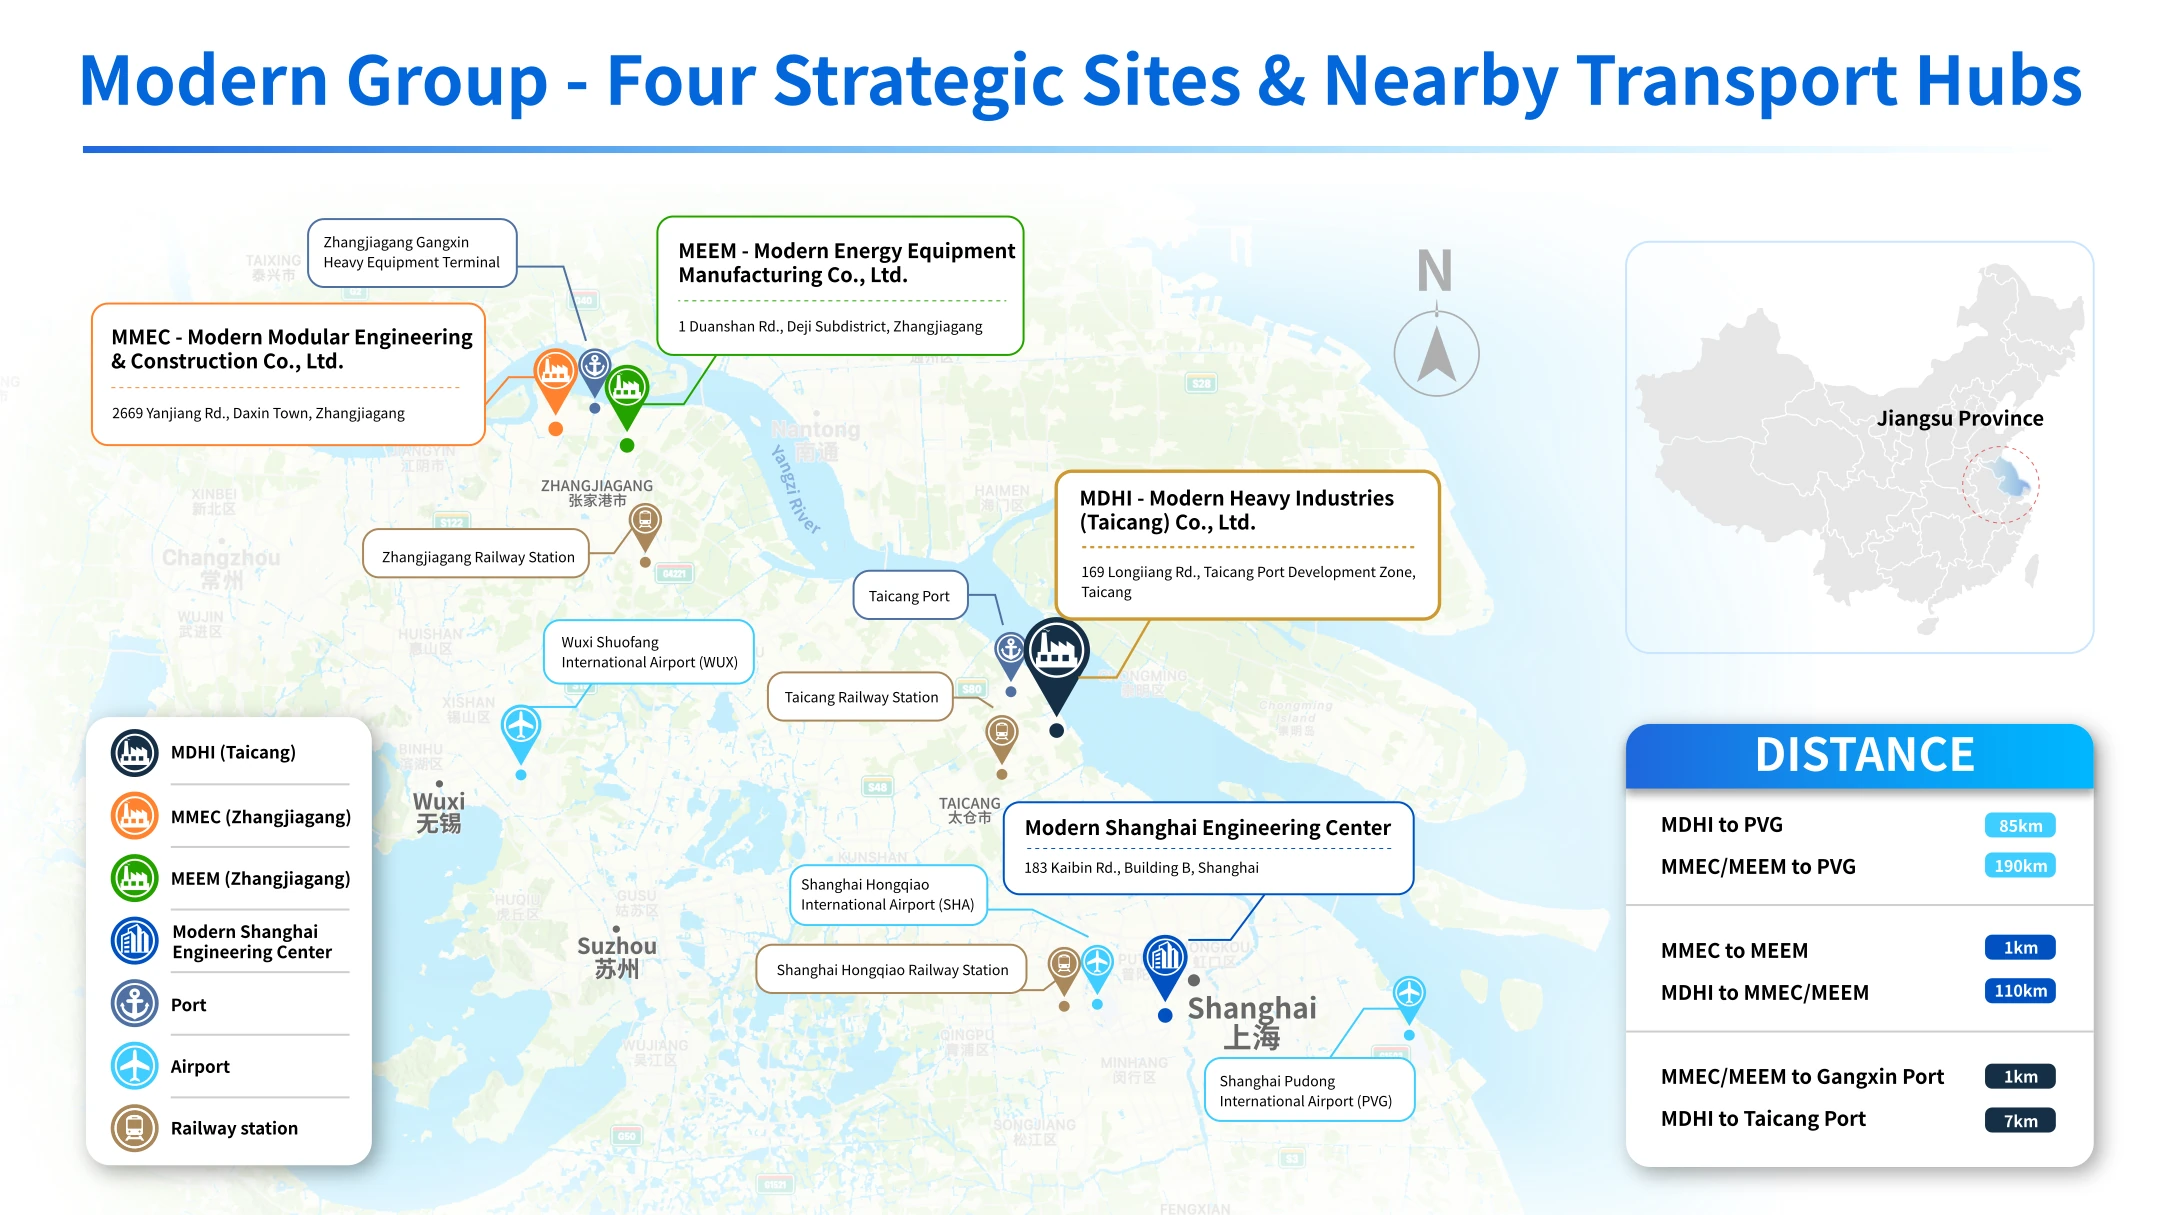
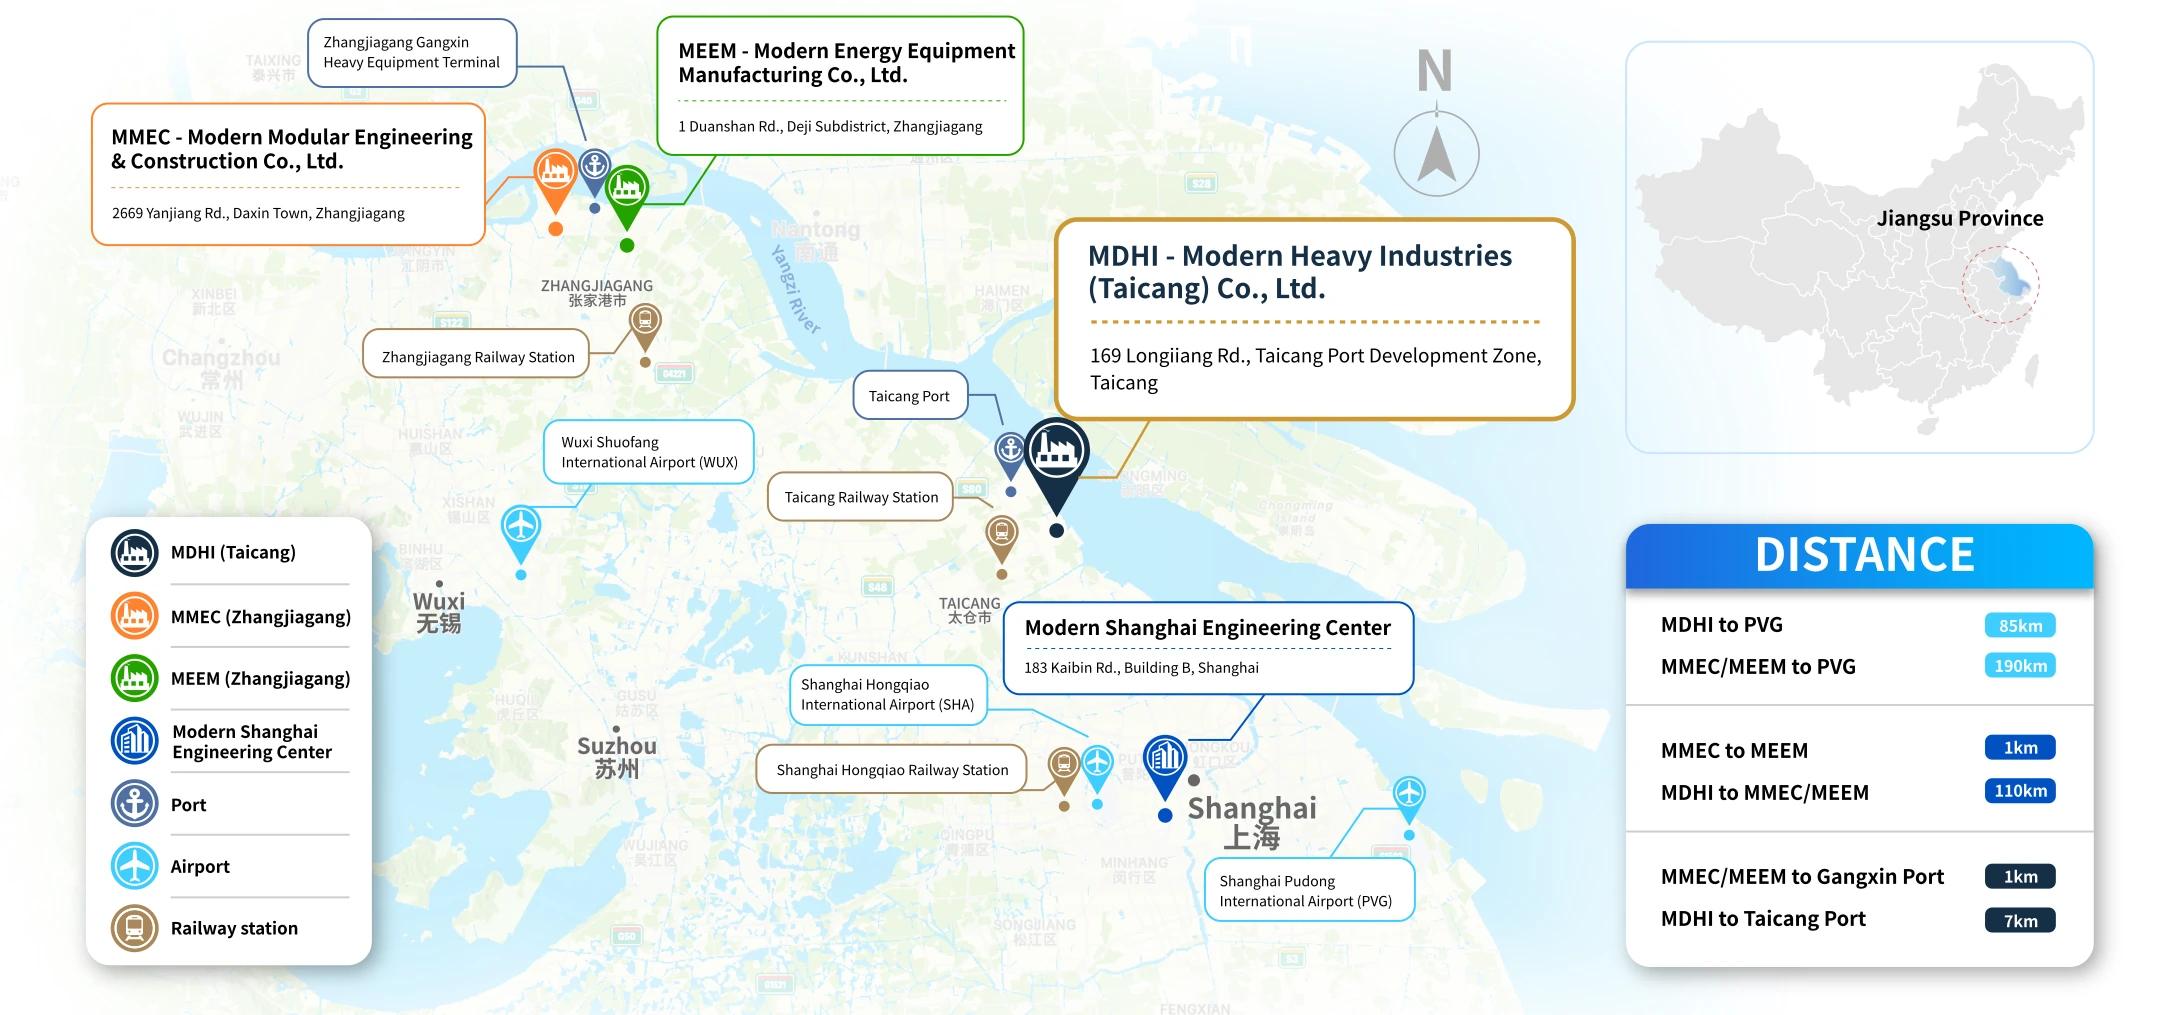
Remove map headline and enlarge MDHI location callout

diff --git a/abtmdhi.html b/abtmdhi.html
@@ -343,7 +343,7 @@
 
   <section class="about-section about-location-section" id="about-location" aria-labelledby="about-location-title"><div class="container">
 <div class="about-section-top"><div><p class="about-eyebrow">LOCATION</p><h2 id="about-location-title">MDHI in Taicang.<br>Connected to the region.</h2></div><p>Our Taicang manufacturing site is located near Shanghai and Taicang Port. The map below shows MDHI within the wider Modern Group network.</p></div>
-<figure class="about-location-map"><h3 class="about-image-heading">MDHI location &amp; transport connections</h3><a href="images/location-map-mdhi.webp" target="_blank" rel="noopener noreferrer" data-infographic-title="MDHI location and transport connections" aria-label="Enlarge MDHI location map"><img src="images/location-map-mdhi.webp" alt="Location map highlighting MDHI in navy and gold, with Modern Group sites and nearby transport hubs" width="2160" height="1215" loading="lazy" decoding="async"></a><figcaption>MDHI is highlighted in navy and gold. Select the map to view it at full size.</figcaption></figure>
+<figure class="about-location-map"><h3 class="about-image-heading">MDHI location &amp; transport connections</h3><a href="images/location-map-mdhi.webp?v=2" target="_blank" rel="noopener noreferrer" data-infographic-title="MDHI location and transport connections" aria-label="Enlarge MDHI location map"><img src="images/location-map-mdhi.webp?v=2" alt="Location map highlighting MDHI in navy and gold, with Modern Group sites and nearby transport hubs" width="2160" height="1015" loading="lazy" decoding="async"></a><figcaption>MDHI is highlighted in navy and gold. Select the map to view it at full size.</figcaption></figure>
 </div></section>
 <section class="about-section about-group" id="about-group">
     <div class="container">
